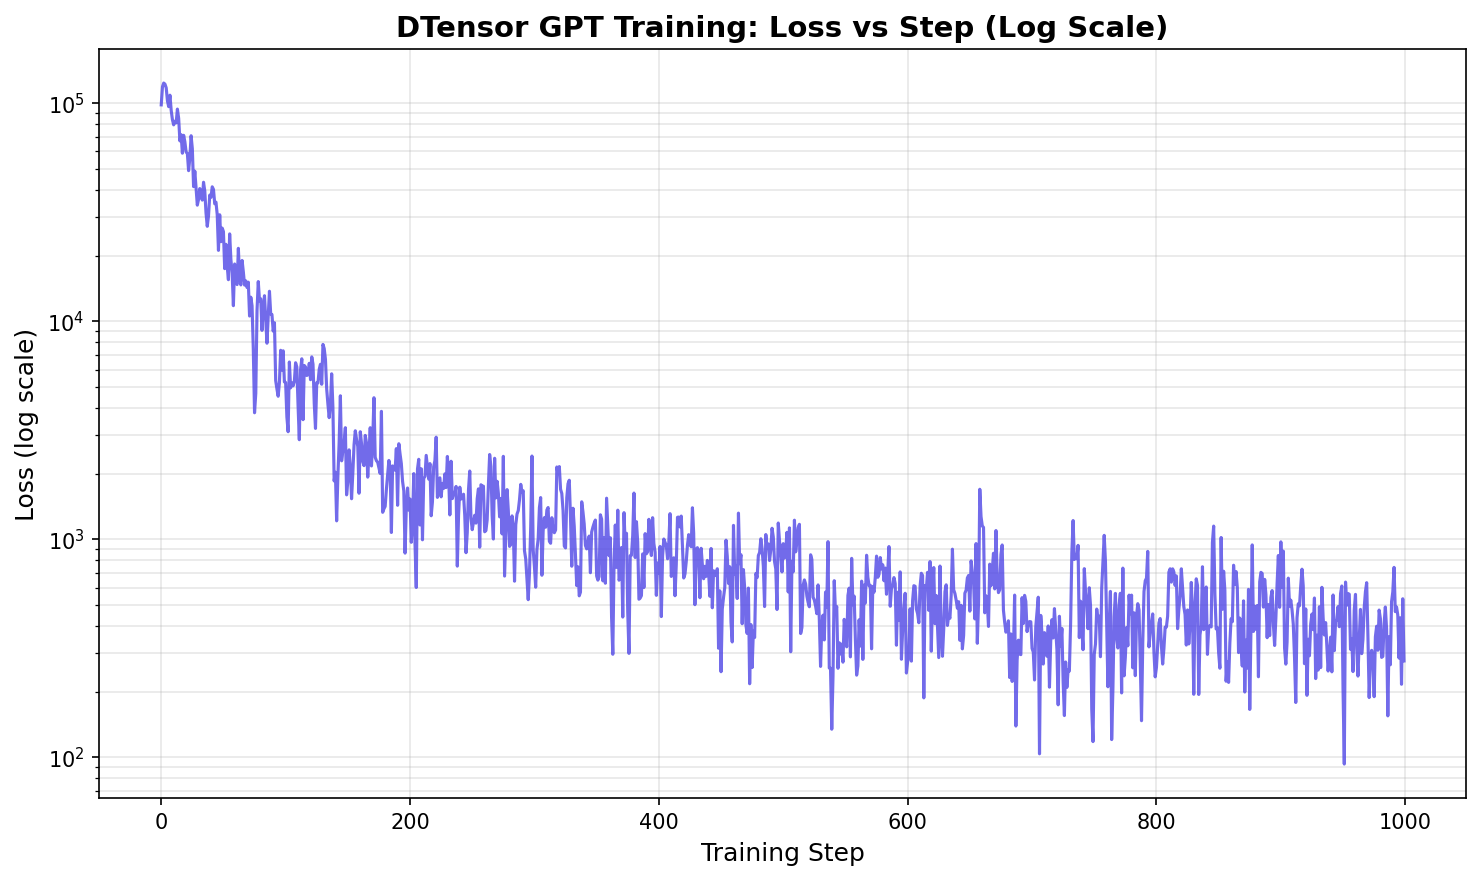
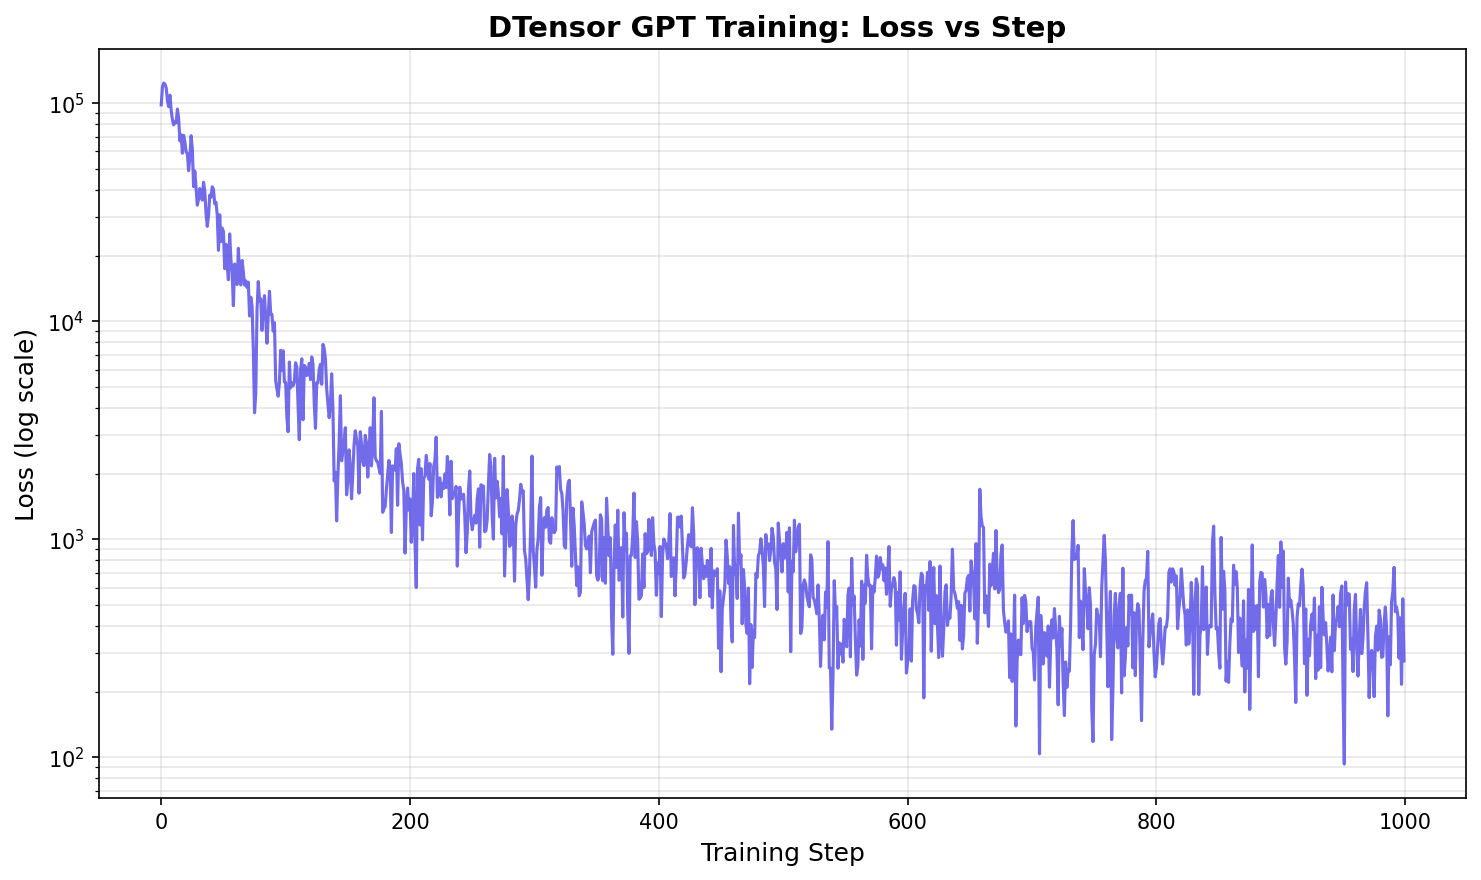
training run TP

Changed region(s): [[0.2485, 0.0, 0.7765, 0.0614]]

diff --git a/DTensor_v2.0/mlp/plot_loss.py b/DTensor_v2.0/mlp/plot_loss.py
@@ -22,7 +22,7 @@ def plot_loss(csv_path="training_log.csv", output_path="loss_vs_step.png"):
     ax.set_yscale('log')
     
     # Labels and title
-    ax.set_title('DTensor GPT Training: Loss vs Step (Log Scale)', fontsize=14, fontweight='bold')
+    ax.set_title('DTensor GPT Training: Loss vs Step ', fontsize=14, fontweight='bold')
     ax.set_xlabel('Training Step', fontsize=12)
     ax.set_ylabel('Loss (log scale)', fontsize=12)
     
